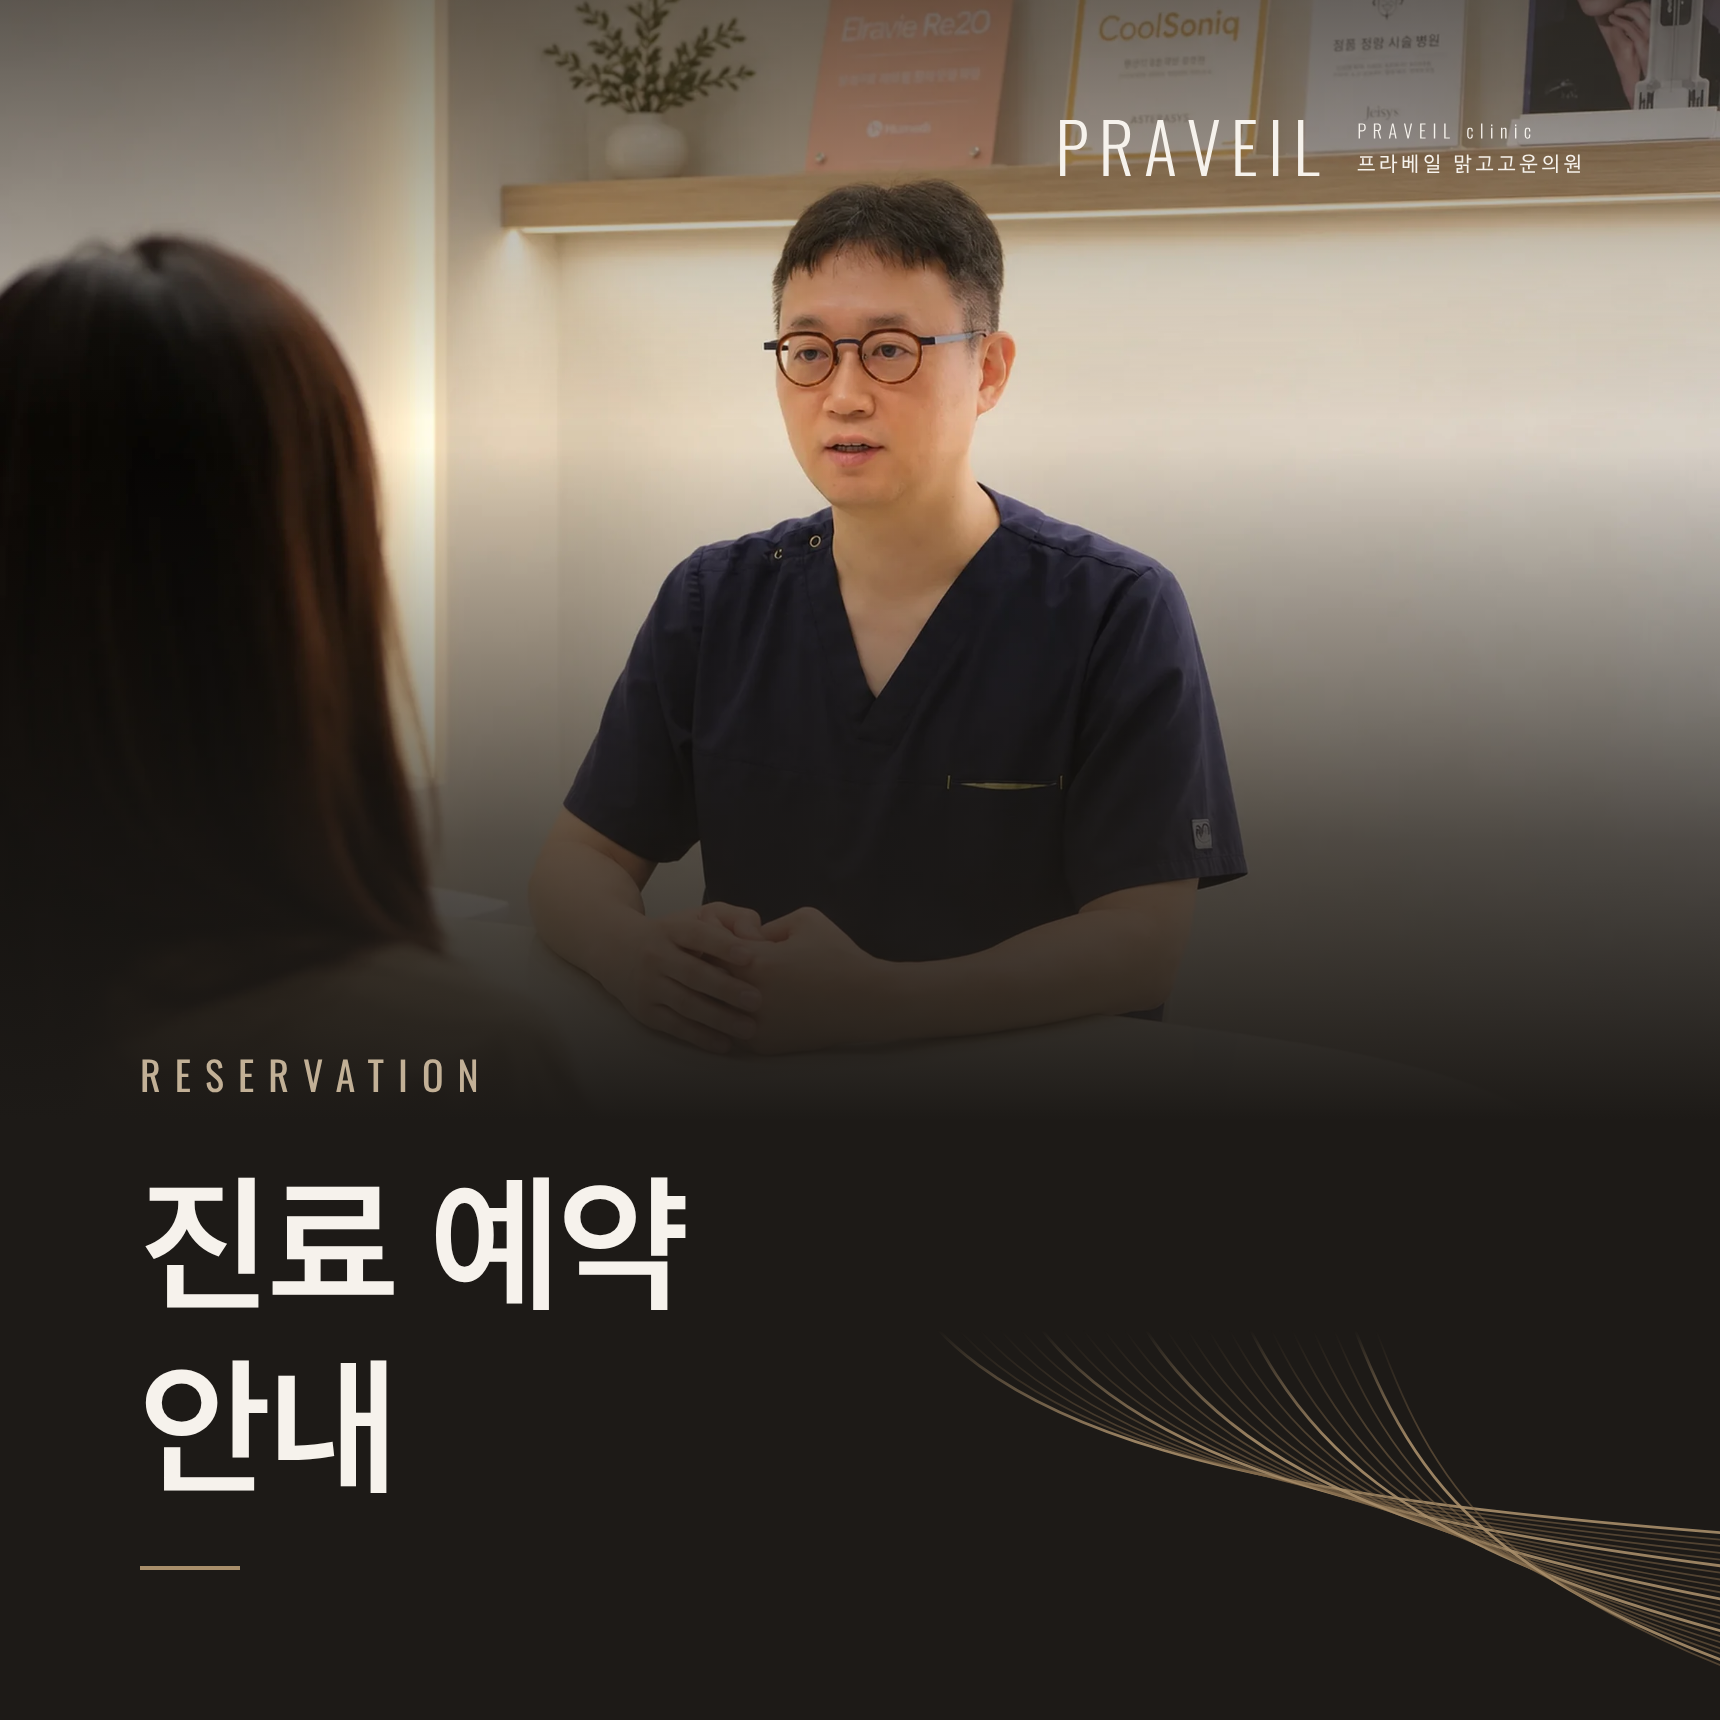
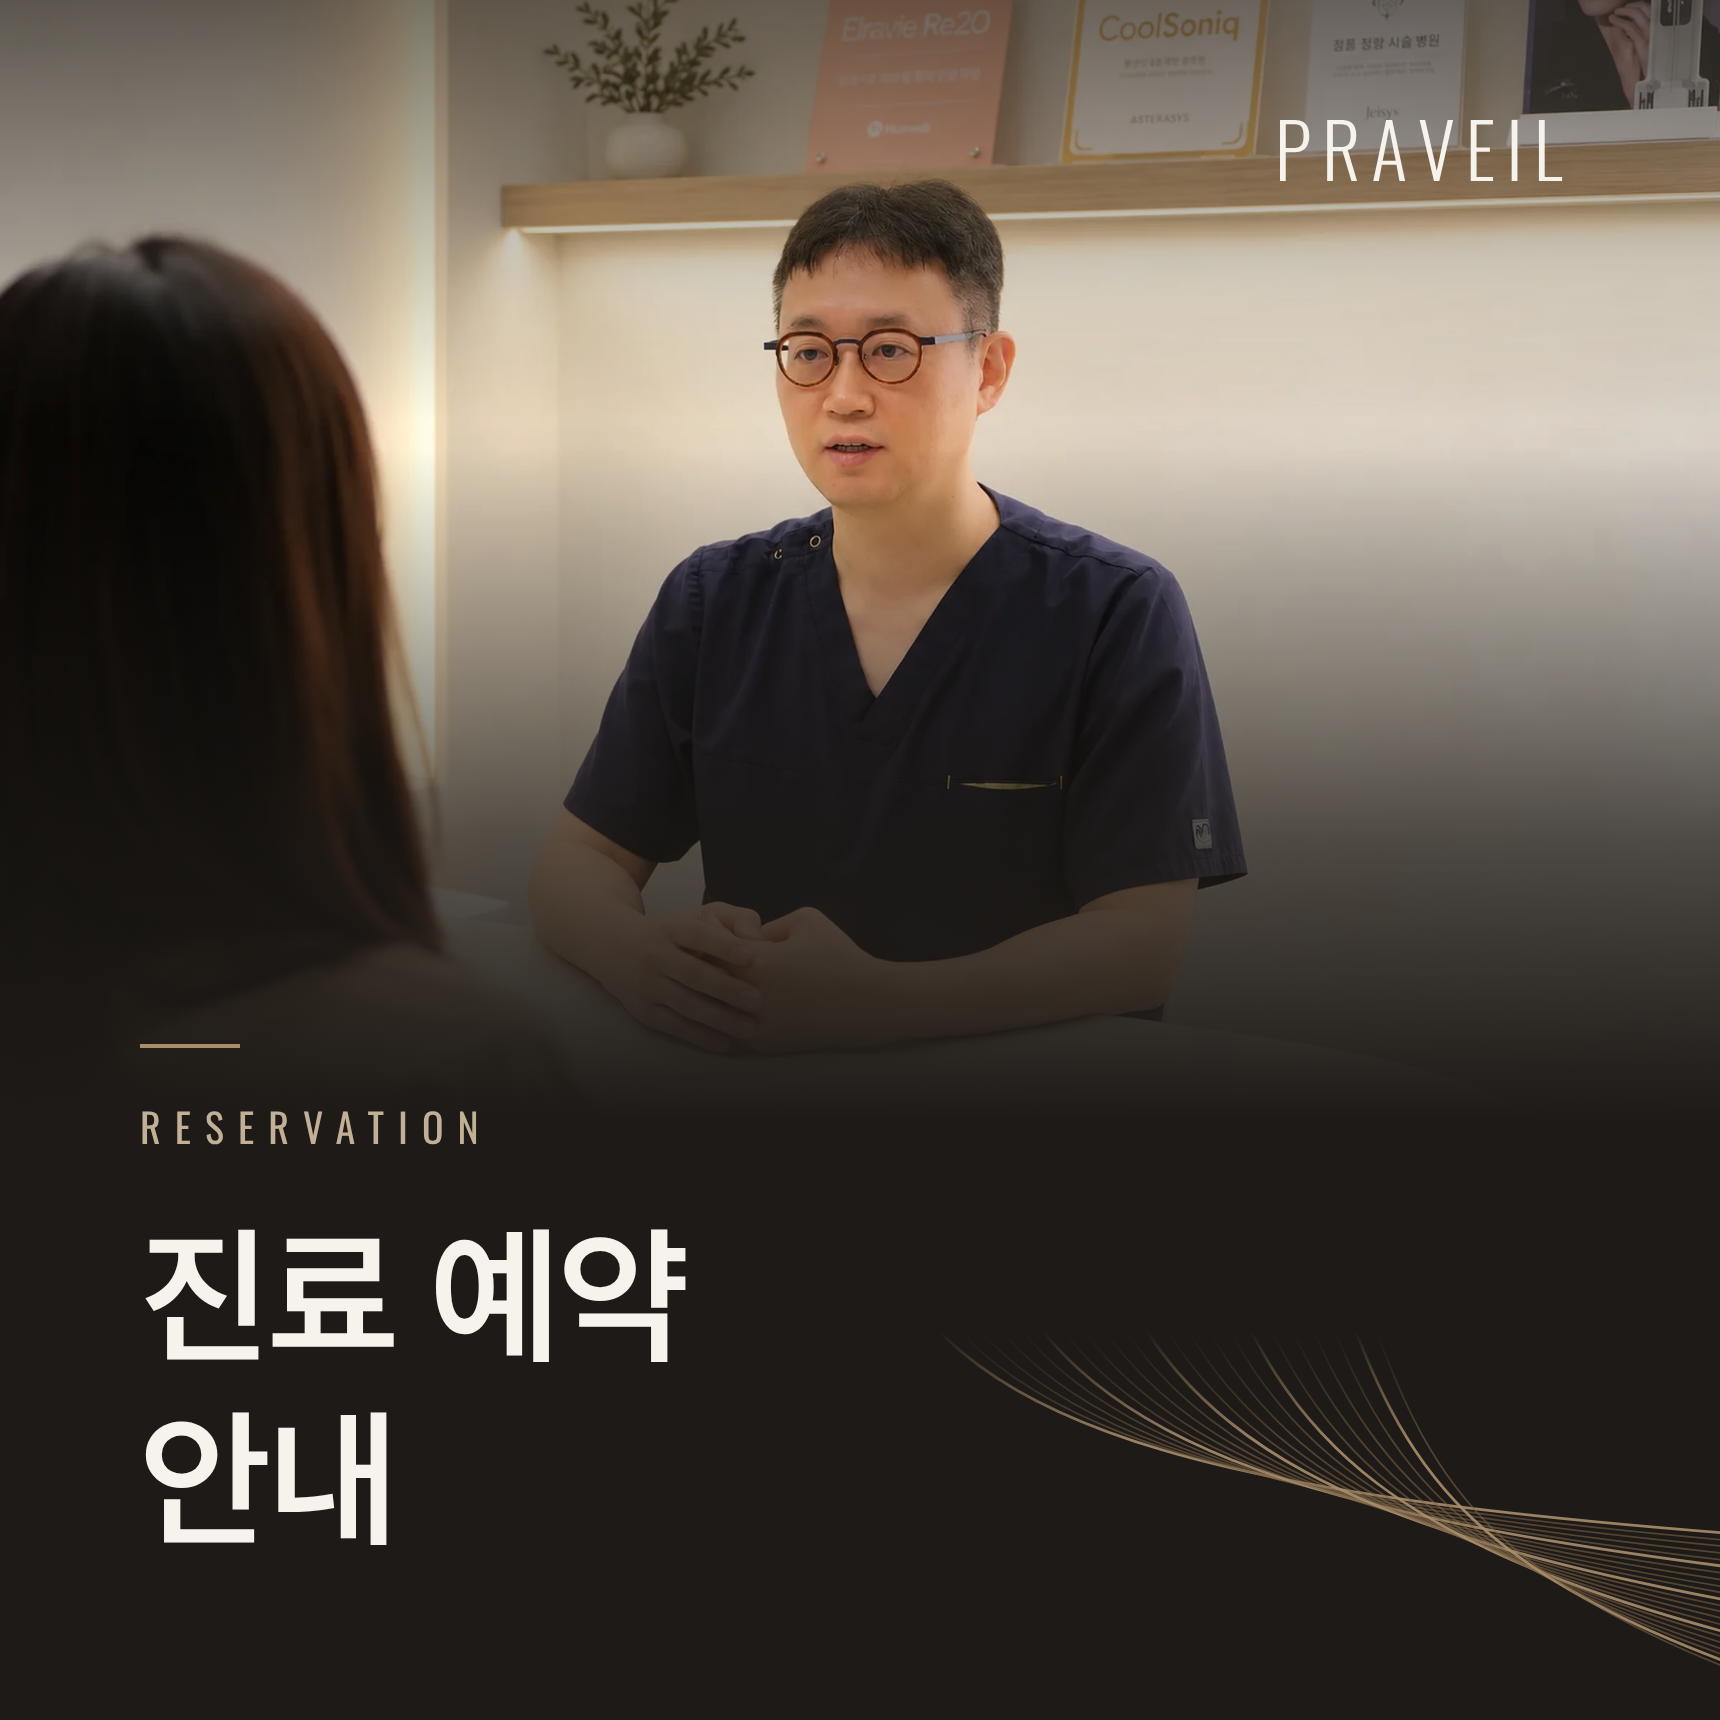
블로그 글 표지: 선을 제목 위로, 로고는 영문(PRAVEIL)만
Claude-Session: https://claude.ai/code/session_01Ld2YJmc6iArSkVBjrjkKUN

Changed region(s): [[0.0616, 0.6163, 0.4006, 0.9244], [0.6163, 0.0616, 0.9244, 0.1233]]

diff --git a/docs/naver-blog-skin/posts.html b/docs/naver-blog-skin/posts.html
@@ -180,7 +180,7 @@
         position: absolute;
         top: 120px;
         right: 140px;
-        width: 520px;
+        width: 300px;
         color: var(--ivory);
       }
       .cover .top-shade {
@@ -398,11 +398,11 @@
         </g>
       </svg>
       <div class="copy">
+        <div class="rule"></div>
         <p class="en">Location · Parking</p>
         <h1>오시는 길<br />주차 안내</h1>
-        <div class="rule"></div>
       </div>
-      <div class="logo brand">{{LOGO}}</div>
+      <div class="logo brand">{{MARK}}</div>
     </section>
 
     <section class="asset card" id="p1-subway">
@@ -498,11 +498,11 @@
         </g>
       </svg>
       <div class="copy">
+        <div class="rule"></div>
         <p class="en">Reservation</p>
         <h1>진료 예약<br />안내</h1>
-        <div class="rule"></div>
       </div>
-      <div class="logo brand">{{LOGO}}</div>
+      <div class="logo brand">{{MARK}}</div>
     </section>
 
     <section class="asset card" id="p2-ways">
@@ -594,11 +594,11 @@
         </g>
       </svg>
       <div class="copy">
+        <div class="rule"></div>
         <p class="en">Notice</p>
         <h1>뉴리즈의원 인천점<br />병원명 변경 안내</h1>
-        <div class="rule"></div>
       </div>
-      <div class="logo brand">{{LOGO}}</div>
+      <div class="logo brand">{{MARK}}</div>
     </section>
 
     <section class="asset card" id="p3-change">
